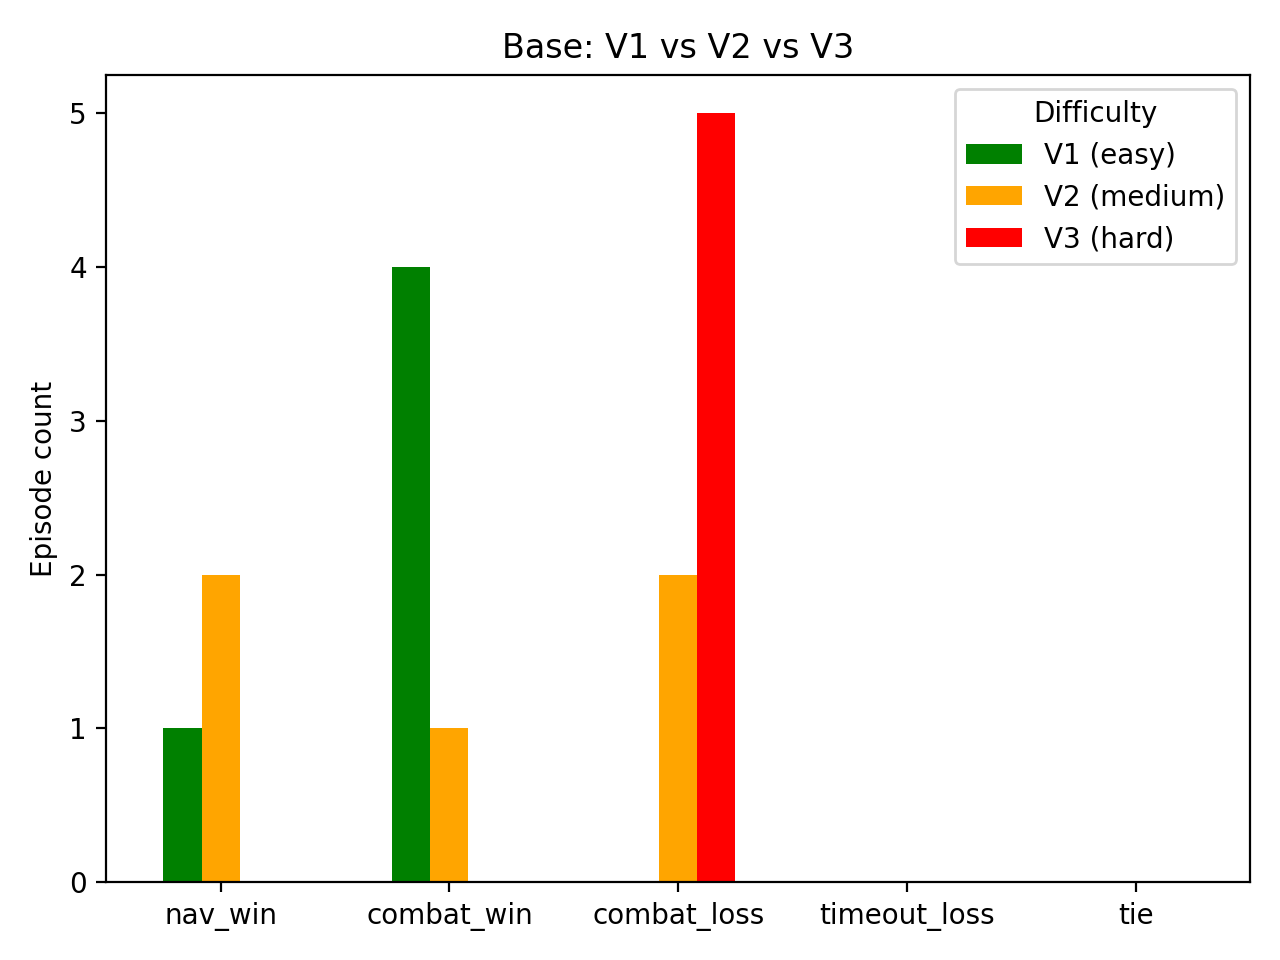
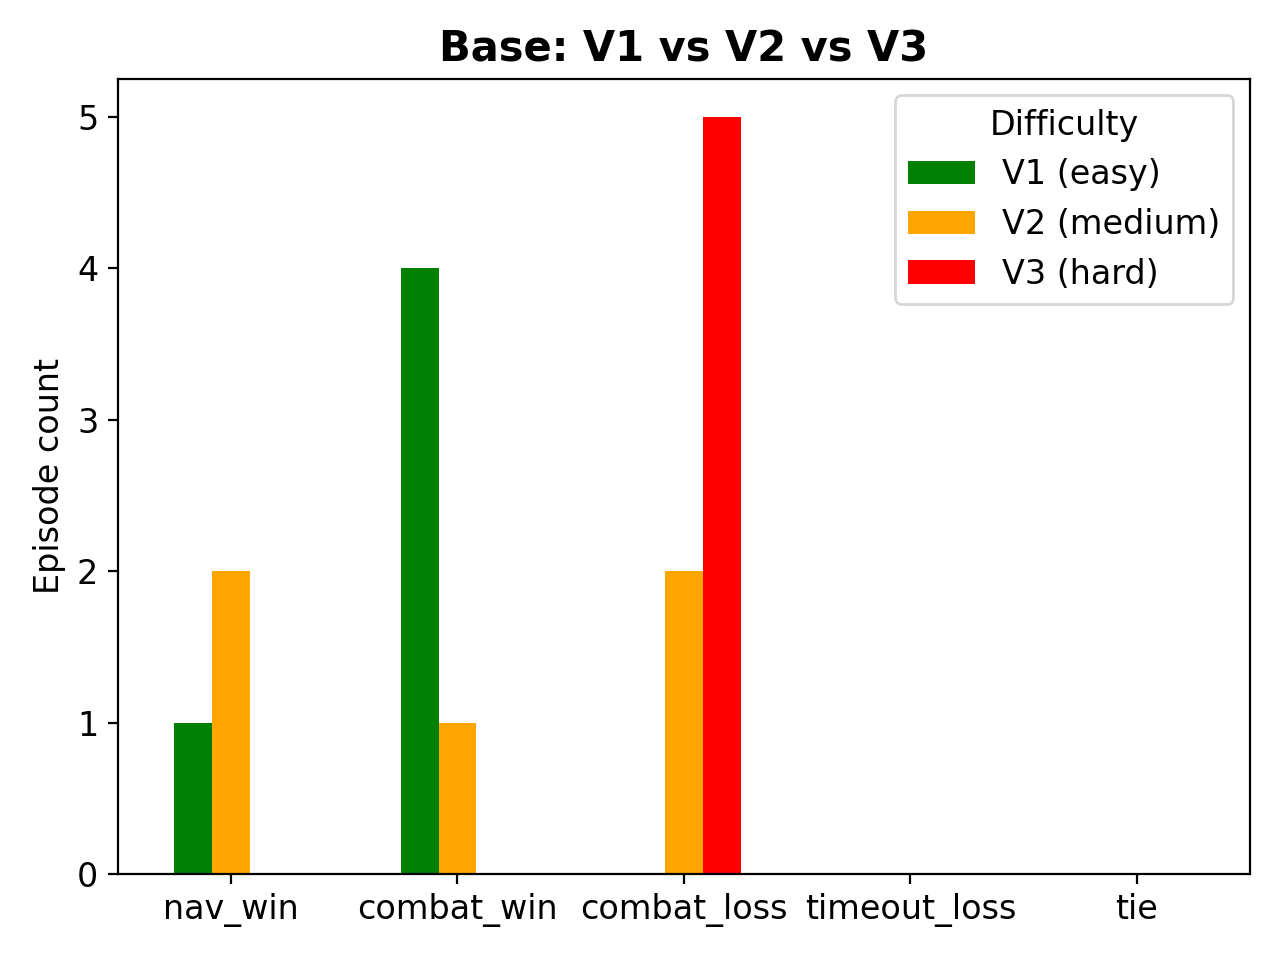
Edit List 1. Updated title, axis labels, tick label sizes, and legend font sizes in the plotting code for better readability.

Changed region(s): [[0.0312, 0.0312, 0.9688, 0.9688]]

diff --git a/Agent Performance Charts/PPO vs A2C overall plots.py b/Agent Performance Charts/PPO vs A2C overall plots.py
@@ -115,12 +115,18 @@ def plot_algo(algo: str) -> str:
     plot_mat = plot_df.set_index("outcome")[RECIPES]
     ax = plot_mat.plot(kind="bar", color=[RECIPE_COLORS[r] for r in RECIPES])
 
-    # Title format you asked for
-    ax.set_title(f"{algo} | NSF vs SF | {TARGET_MAP}")
+    ax.set_title(f"{algo} | NSF vs SF | {TARGET_MAP}", fontsize=15, fontweight="bold")
     ax.set_xlabel("")
-    ax.set_ylabel("Episode count")      
+    ax.set_ylabel("Episode count", fontsize=12)
 
-    ax.legend([f"{r} recipe" for r in RECIPES], title="Training recipe")
+    # ✅ tick label font sizes (terminal outcome labels are x-ticks)
+    ax.tick_params(axis="x", labelsize=12)
+    ax.tick_params(axis="y", labelsize=12)
+
+    # ✅ legend font sizes (optional but usually looks better)
+    ax.legend([f"{r} recipe" for r in RECIPES], title="Training recipe",
+              fontsize=12, title_fontsize=12)
+
     plt.xticks(rotation=0)
     plt.tight_layout()
 

diff --git a/Agent Performance Charts/MaskPPO overall plots.py b/Agent Performance Charts/MaskPPO overall plots.py
@@ -91,10 +91,15 @@ def plot_variant(variant: str):
     plot_mat = plot_df.set_index("outcome")[VERSIONS]
     ax = plot_mat.plot(kind="bar", color=[VERSION_COLORS[v] for v in VERSIONS])
 
-    ax.set_title(f"{variant}: V1 vs V2 vs V3")
+    ax.set_title(f"{variant}: V1 vs V2 vs V3", fontsize=15, fontweight="bold")
     ax.set_xlabel("")
-    ax.set_ylabel("Episode count")
-    ax.legend([VERSION_LABELS[v] for v in VERSIONS], title="Difficulty")
+    ax.set_ylabel("Episode count", fontsize=12)
+    
+    # ✅ tick label font sizes (terminal outcome labels are x-ticks)
+    ax.tick_params(axis="x", labelsize=12)
+    ax.tick_params(axis="y", labelsize=12)
+    
+    ax.legend([VERSION_LABELS[v] for v in VERSIONS], title="Difficulty", fontsize=12, title_fontsize=12)
 
     plt.xticks(rotation=0)
     plt.tight_layout()
